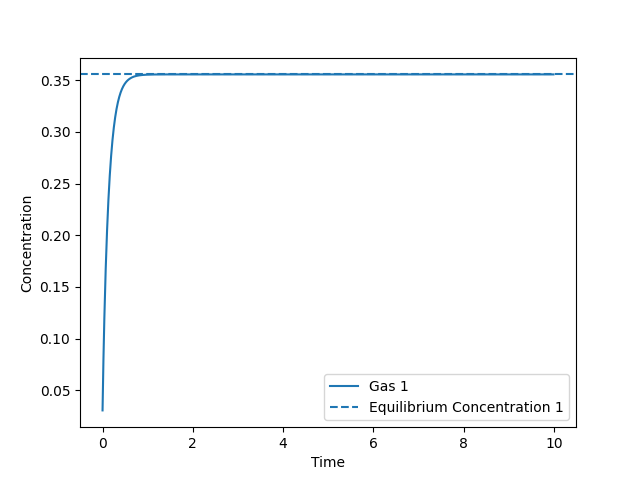
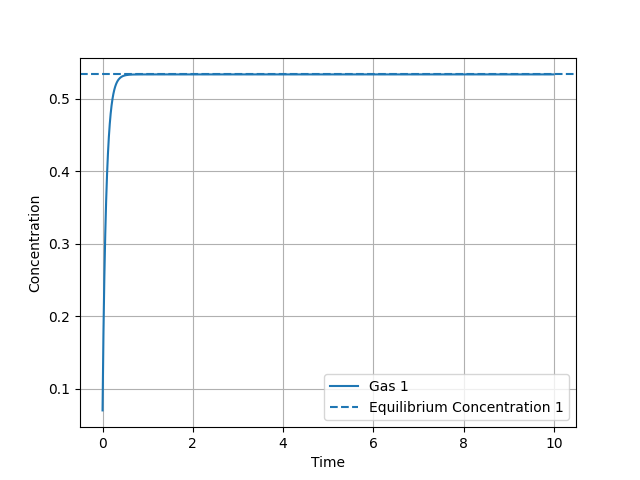
SDA_Python

diff --git a/utilities/MMS_verification/spectral_diffusion_algorithm.py b/utilities/MMS_verification/spectral_diffusion_algorithm.py
@@ -18,25 +18,16 @@ def SpectralDiffusion1equation(gas_1, initial_condition_gas_1, parameter, increm
 
 	n = 0
 	np1 = 1
-
 	diffusion_rate1 = 0.0
-
 	diffusion_rate_coeff1 = 0.0
-
 	source_rate_coeff_1 = 0.0
-
 	source_rate1 = 0.0
-
 	projection_coeff = 0.0
-
 	gas_1_solution = 0.0
-
 	pi = math.pi
-
+	
 	diffusion_rate_coeff1 = pi**2 * parameter[1] / parameter[2]**2 # pi^2 * D1 / a^2
-
 	projection_coeff = -2.0 * math.sqrt(2.0 / pi)
-
 	source_rate_coeff_1 = projection_coeff * parameter[3] # - 2 sqrt(2/pi) * S1
 
 	# dx_k/dt = -(D*pi^2*k^2/a^2)x_k + <S_k|psi>
@@ -53,31 +44,17 @@ def SpectralDiffusion1equation(gas_1, initial_condition_gas_1, parameter, increm
 
 		diffusion_rate1 = diffusion_rate_coeff1 * np1**2 # pi^2 * D1 * n^2 / a^2
 		source_rate1 = source_rate_coeff_1 * n_coeff # [-  sqrt(8/pi) * S1 * (-1)^n/n] this is S_k
-
 		coeff = 1.0 + (diffusion_rate1) * increment # denomenator when solving the backward euler
-
+        
+		#x(i+1) = (x(i) + <S_k|psi>Dt)/(1+(D*pi^2*k^2/a^2)Dt) | This is the equation below
 		initial_conditions = (initial_condition_gas_1[n] + source_rate1 * increment)/(coeff)
-
-		#Laplace2x2(coeff, initial_conditions) # (A,b)
-
 		initial_condition_gas_1[n] = initial_conditions
-
 		gas_1_solution += projection_coeff * n_coeff * initial_conditions / ((4.0 / 3.0) * pi) #Volume average
 
 	gas_1[0] = gas_1_solution
 
 
-
-# def Laplace2x2(A, b):
-# 	detA = A[0] * A[3] - A[1] * A[2]
-
-# 	if detA != 0.0:
-# 		detX = b[0] * A[3] - b[1] * A[1]
-# 		detY = b[1] * A[0] - b[0] * A[2]
-# 		b[0] = detX / detA
-# 		b[1] = detY / detA
-
-# def main():
+ #def main():
 
 num_steps = 1000
 increment = 0.01
@@ -90,7 +67,7 @@ D1 = 3.0
 a = 2.0
 S1 = 4.0
 
-parameter = [n_modes, D1, a, S1] #We dont need b and g nor teh decay L
+parameter = [n_modes, D1, a, S1] #We dont need b and g nor the decay L
 
 initial_condition_gas_1 = np.zeros(parameter[0])
 
@@ -106,8 +83,8 @@ plt.axhline(y=c_eq1, linestyle='--', label='Equilibrium Concentration 1')
 plt.xlabel('Time')
 plt.ylabel('Concentration')
 plt.legend()
-plt.show()
-plt.savefig('output.png')  # Saves the plot as a file
+plt.grid()
+plt.savefig('output.png')
 # if __name__ == "__main__":
 # 	main()
 
